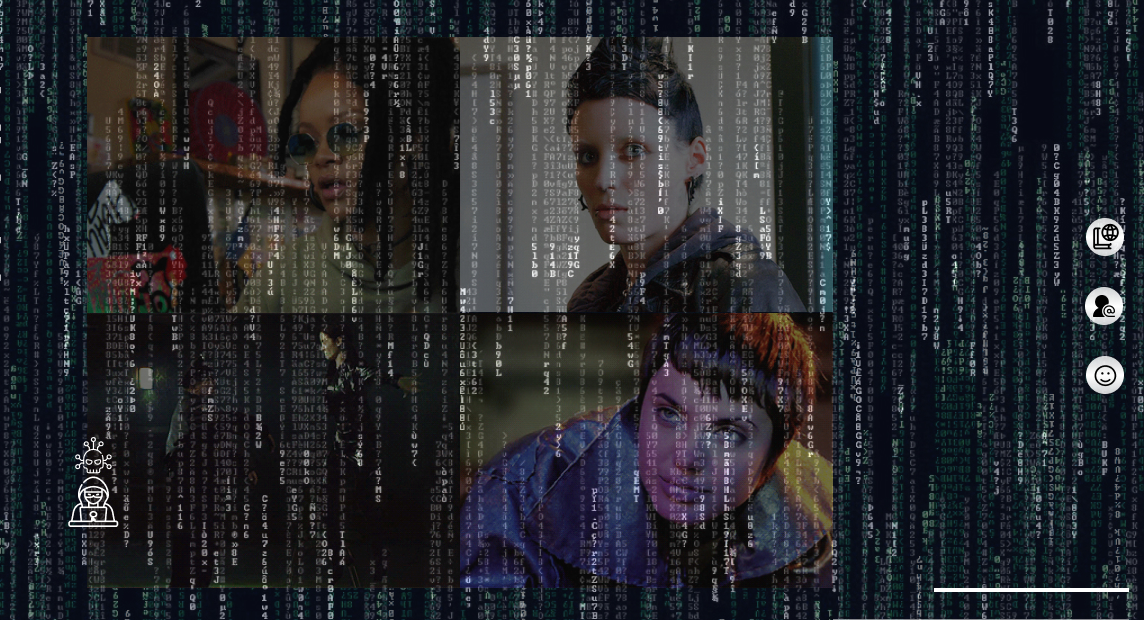
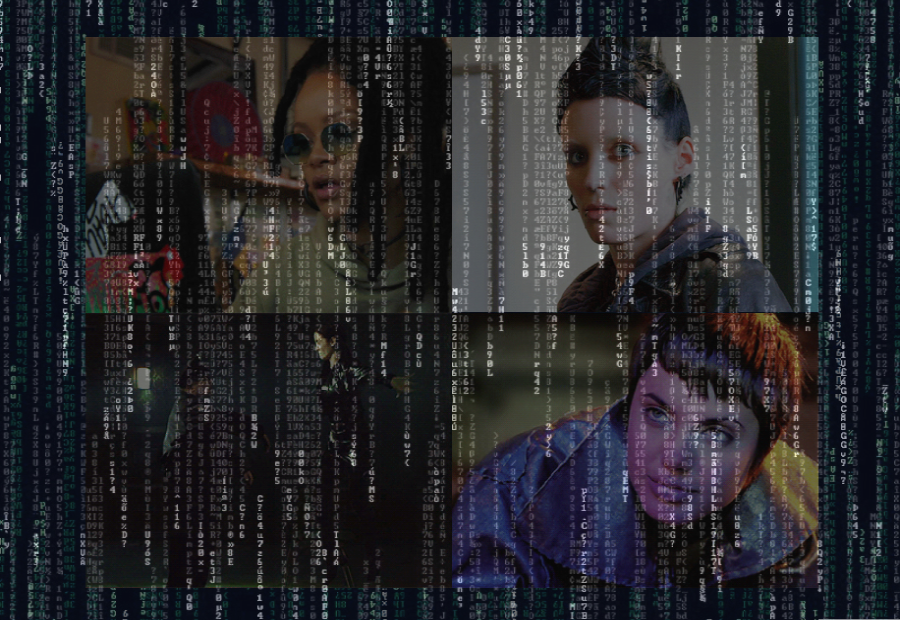
correction espace projets html&css

diff --git a/index.html b/index.html
@@ -102,7 +102,7 @@
         <!-- Projet 1 -->
         <a class="move" href="https://pauline-wim.github.io/hackeuse/index.html" target="_blank">
             <div class="proj simplon_fil_rouge">
-                <img src="" alt="">
+                <img class="img" src="images/hackeuse.png" alt="">
                 <div class="title_box">
                     <h3 class="hack">La <br> Hack <br> euse <br> au <br> Ciné <br> ma</h3>
                     <h4>Projet fil rouge <br> Simplon | Paris <br> Juillet 2021</h4>
@@ -112,8 +112,8 @@
 
         <!-- Projet 2 -->
         <a class="move" href="https://claireav.github.io/Jeanne/index.html" target="_blank">
-            <div class="proj simplon_ecommerce">
-                <img src="" alt="">
+            <div class="proj left simplon_ecommerce">
+                <img class="img" src="images/jeanneboutique.png" alt="">
                 <div class="title_box left">
                     <h3>Jeanne Boutique</h3>
                     <h4>Site de e-commerce (Front-End) <br> Projet en équipe <br> Simplon | Paris <br> Juin 2021</h4>
@@ -124,7 +124,7 @@
         <!-- Projet 3 -->
         <a class="move" href="https://the-expanse-projet1.netlify.app/" target="_blank">
             <div class="proj simplon_serietv">
-                <img src="" alt="">
+                <img class="img" src="images/expanse.png" alt="">
                 <div class="title_box">
                     <h3>The Expanse, <br> ma série préférée</h3>
                     <h4>Projet Front-End <br> Simplon | Paris <br> Juin 2021</h4>
@@ -133,9 +133,9 @@
         </a>
 
         <!-- Projet 4 -->
-        <a class="move" href="" target="">
-            <div class="proj">
-                <img src="" alt="">
+        <a class="move" href="https://pauline-wim.github.io/digitous-html-cuisine-main/index.html" target="_blank">
+            <div class="proj left">
+                <img class="img" src="images/cuizine.png" alt="">
                 <div class="title_box left">
                     <h3 class="hack">Cui'zine</h3>
                     <h4>Projet Bootstrap <br> HTML / CSS / BOOTSTRAP <br> Konexio | Paris <br> Décembre 2021</h4>
@@ -153,9 +153,9 @@
         </div>
 
         <!-- Projet 6 -->
-        <a class="move" href="https://pauline-wim.github.io/konexio-projet-fullstack/">
-            <div class="proj konexio_API">
-                <img src="" alt="">
+        <a class="move" href="https://pauline-wim.github.io/konexio-projet-fullstack/front/index.html" target="_blank">
+            <div class="proj left konexio_API">
+                <img class="opacity" src="images/restcountries.png" alt="">
                 <div class="title_box left">
                     <h3>Projet Rest API</h3>
                     <h4>Rest Countries | JQuery | JS | Bootstrap<br> Konexio | Paris <br> Janvier 2022</h4>
@@ -168,7 +168,7 @@
         <!-- <h1 id="avant">Avant...</h1> -->
         <a class="move" href="avant.html">
             <div class="proj projet_art">
-                <img src="img/serie2/DSC_0315.JPG" alt="">
+                <img class="img" src="img/serie2/DSC_0315.JPG" alt="">
                 <div class="title_box">
                     <div class="title_box_art">
                         <h3 class="title-proj-art">Projets artistiques</h3>
@@ -185,13 +185,13 @@
         <h1>Contact</h1>
         <h2><a class="breathe" href="mailto:pauline.wimmer@gmail.com">pauline.wimmer@gmail.com</a></h2>
         <div class="social">
-            <h4>Social</h4>
+            <!-- <h4>Social</h4> -->
             <a class="breathe" href="https://github.com/pauline-wim" target="_blank"><p>GitHub</p></a>
             <a class="breathe" href="https://www.linkedin.com/in/pauline-wimmer/" target="_blank"><p>LinkedIn</p></a>
             <a class="breathe" href="https://vimeo.com/paulinewimmer" target="_blank"><p>Vimeo</p></a>
         </div>
         <div class="signature">
-            <p>© 2021 Pauline Wimmer.</p>
+            <p>© Pauline Wimmer 2021.</p>
             <p><span>Portfolio construit de A à Z <br> avec beaucoup d'amour <br> & d'attention.</span></p>
         </div>
     </footer>

diff --git a/style.css b/style.css
@@ -187,8 +187,8 @@ button:hover {
 
 .projets h1 {
     padding: 40px 250px;
-    color: #ffd527;
-    /* color: white; */
+    /* color: #ffd527; */
+    color: white;
 }
 
 /* .projets h1:hover {
@@ -197,18 +197,31 @@ button:hover {
 
 .proj {
     height: 90vh;
-    display: flex;
-    justify-content: flex-end;
-    align-items: flex-end;
+    /* color: #ffd527; */
+    color: white;
+    /* display: flex; */
+    display: grid;
+    grid-template-columns: 1fr 32%;
+    grid-template-areas:
+    "img title_box";
+    /* justify-content: flex-end;
+    align-items: flex-end; */
 }
 
-.move:hover {
+.left {
+    grid-template-columns: 32% 1fr;
+    grid-template-areas:
+    "title_box img"; 
+}
+
+.proj:hover {
     /* color: white; */
     /* color: rgb(172, 45, 172); */
-    color: white;
+    /* color: white; */
+    color: #ffd527;
     /* cursor: url(); */
 }
-
+/* 
 .simplon_fil_rouge {
     background: url(images/hackeuse.png) no-repeat center/cover;
 }
@@ -219,18 +232,33 @@ button:hover {
 
 .simplon_serietv {
     background: url(images/expanse.jpg) no-repeat top/cover;
-    /* filter: grayscale(100%) contrast(1.3); */
+    filter: grayscale(100%) contrast(1.3);
+}
+*/
+
+.proj .img {
+    grid-area: img;
+    height: 100%;
+    filter: grayscale(90%) contrast(1);
 }
 
-.title_box{
-    position: absolute;
+.opacity {
+    filter: opacity(50%);
+}
+
+.proj img:hover {
+    filter: none;
+}
+
+.title_box {
+    grid-area: title_box;
+    /* position: absolute;
     right: 0;
     height: 90vh;
-    width: 32%;
+    width: 32%; */
     /* background: black; */
-    background-color: #ffd527;
+    background-color: black;
     /* background: white; */
-    /* color: #ffd527; */
     display: flex;
     flex-direction: column;
     justify-content: space-between;
@@ -240,9 +268,9 @@ button:hover {
     line-height: 1.2;
 }
 
-.left {
+/* .left {
     left: 0;
-}
+} */
 
 .title_box h3, .title_box h4 {
     padding: 20px;
@@ -288,7 +316,7 @@ h3 {
 
 .projet_art img {
     grid-area: img;
-    width: 105.5%;
+    width: 100%;
 }
 
 /* PROJETS */
